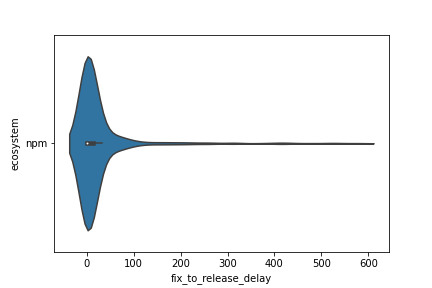
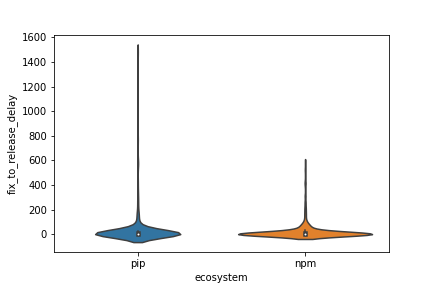
current state

diff --git a/data_explore/pypi.py b/data_explore/pypi.py
@@ -2,10 +2,30 @@ import common, sql
 import os, json
 import subprocess, shlex
 from dateutil import parser as dt
+import dateutil
 import requests, json
 import logging, coloredlogs
 coloredlogs.install()
 ecosystem = 'pip'
+from packaging import version as PythonVersion
+
+def isValidVersion(v):
+    try:
+        v = PythonVersion.Version(v)
+        return True
+    except:
+        logging.info(v)
+        return False
+
+def version_sorting(vers):
+    temp=[]
+    for v in vers:
+        if isValidVersion(v):
+            temp.append(v)
+    vers=temp
+
+    #https://stackoverflow.com/a/58035970/1445015
+    return sorted(vers, key=lambda x: PythonVersion.Version(x))
 
 def get_repository_url(package):
     repository = None
@@ -27,11 +47,26 @@ def get_repository_url(package):
     else:
         return common.norepo
     
-def get_prior_release(package, version):
-    #same api
-    pass
+def get_release_info(package, version):
+    release_date = prior_release = None
+    
+    url = 'https://pypi.org/pypi/{}/json'.format(package)
+    page = requests.get(url)
+    assert page.status_code == 200
+    data = json.loads(page.content)
+    assert 'releases' in data
 
+    releases = data['releases']
+    if version in releases.keys():
+        if len(releases[version]) > 0:
+            release_date = (dt.parse(releases[version][-1]['upload_time_iso_8601'])).astimezone(dateutil.tz.tzutc())
+        
+        versions = version_sorting(list(releases.keys()))
+        idx = versions.index(version)
+        if idx > 0:
+            prior_release = versions[idx-1]
 
+    return release_date, prior_release
 
 
 if __name__=='__main__':
@@ -40,3 +75,15 @@ if __name__=='__main__':
     for item in packages:
         id, repo = item['id'], get_repository_url(item['name'])
         sql.execute('update package set repository_url=%s where id = %s',(repo,id))
+
+    #get release info (publish date and prior release) for each fixing release
+    packages = common.getPackagesToProcessRelease(ecosystem)
+    for item in packages:
+        package_id, package, version = item['package_id'], item['package'], item['version']
+        print(package, package_id, version)
+        if not isValidVersion(version):
+            print('release version invalid')
+            logging.info(version)
+            continue
+        publish_date, prior_release = get_release_info(package,version)
+        sql.execute('insert into release_info values(null,%s,%s,%s,%s)',(package_id, version, publish_date, prior_release))

diff --git a/data_explore/npm.py b/data_explore/npm.py
@@ -4,12 +4,17 @@
 3. get last release before fix
 '''
 
+
 import common, sql
 import os, json
 import subprocess, shlex
 from dateutil import parser as dt
 import dateutil
+from distutils.version import LooseVersion, StrictVersion
+
 ecosystem = 'npm'
+
+
 
 def get_repository_url(package):
     ''' npm repo command gets the subdirectory of a package within a git repository '''
@@ -59,7 +64,35 @@ def get_prior_release(package, version):
     else:
         return common.manualcheckup
     
+def check_prior_release():
+    q='''select *
+        from release_info ri
+        join package p on ri.package_id = p.id
+        where ecosystem = 'npm';'''
+    results = sql.execute(q)
 
+    for item in results:
+        package, version, prior_release = item['name'], item['version'], item['prior_release']
+        print(package, version, prior_release)
+        flag = True
+        try:
+            lines = subprocess.check_output(shlex.split('npm view {} versions --json'.format(package)), 
+                            stderr=subprocess.STDOUT, encoding="437")
+        except Exception as e:
+            print(e)
+            flag = False
+            assert prior_release == common.manualcheckup
+
+        if flag:
+            d = json.loads(lines)
+            d = common.semver_sorting(d)
+            if version in d:
+                idx = d.index(version) 
+                if idx == 0:
+                    assert prior_release == common.manualcheckup
+                else:
+                    assert prior_release == d[idx-1]
+        
 
 if __name__ == '__main__':
     #get repository remote url of packages

diff --git a/data_explore/git_analysis.py b/data_explore/git_analysis.py
@@ -161,7 +161,15 @@ def process_fix_commit_dates():
         repo_url = sanitize_repo_url(repo_url)
         reference_urls = get_referenced_urls(advisory_id, sha)
         for url in reference_urls:
-            print(url, repo_url)
+            print("two urls:" ,url, repo_url)
+            if 'opendev' in url:
+                url = requests.get(url).url
+                if repo_url.split('/')[-1] in url:
+                    return True
+            if 'bitbucket' in url:
+                if repo_url.split('/')[-1] == url.split('/')[-1]:
+                    return True
+
             url = sanitize_repo_url(url)
             if repo_url ==  url:
                 return True
@@ -172,7 +180,7 @@ def process_fix_commit_dates():
     q = '''select *
             from fix_commits fc
             join package p on fc.package_id = p.id
-            where ecosystem = 'npm'
+            where ecosystem = 'pip'
             and commit_date is null
             and invalid is null;'''
     results = sql.execute(q)
@@ -362,6 +370,6 @@ def analyze_change_complexity():
 
 
 if __name__=='__main__':
-    #process_fix_commit_dates()
+    process_fix_commit_dates()
     #get_release_commits()
-    analyze_change_complexity()
+    #analyze_change_complexity()

diff --git a/data_explore/common.py b/data_explore/common.py
@@ -15,6 +15,8 @@ notgit = 'not git'
 short_commits = 0
 import collections
 import githubapi
+import semantic_version
+
 
 repos_to_avoid = [
             'https://github.com/rapid7/metasploit-framework',
@@ -311,7 +313,7 @@ def parse_repository_url_from_references(url):
     elif 'https://git.spip.net/spip/spip' in url:
         return 'https://github.com/spipremix/spip'
     elif 'opendev' in url:
-        return manualcheckup
+        return url
     else:
         print ('i am here fuck it', url)
         exit() #manually inspect
@@ -570,6 +572,17 @@ def custom_fix_commits():
                 else:
                     print(error)
                     exit()
+
+
+def semver_sorting(l):
+    if len(l) > 1:
+        for i in range(0,len(l)):
+            for j in range(i+1,len(l)):
+                if semantic_version.Version(l[i]) > semantic_version.Version(l[j]):
+                    l[i], l [j] = l[j], l[i]
+    return l
+
+
 
 if __name__=='__main__':
     #analyze_change_complexity()
